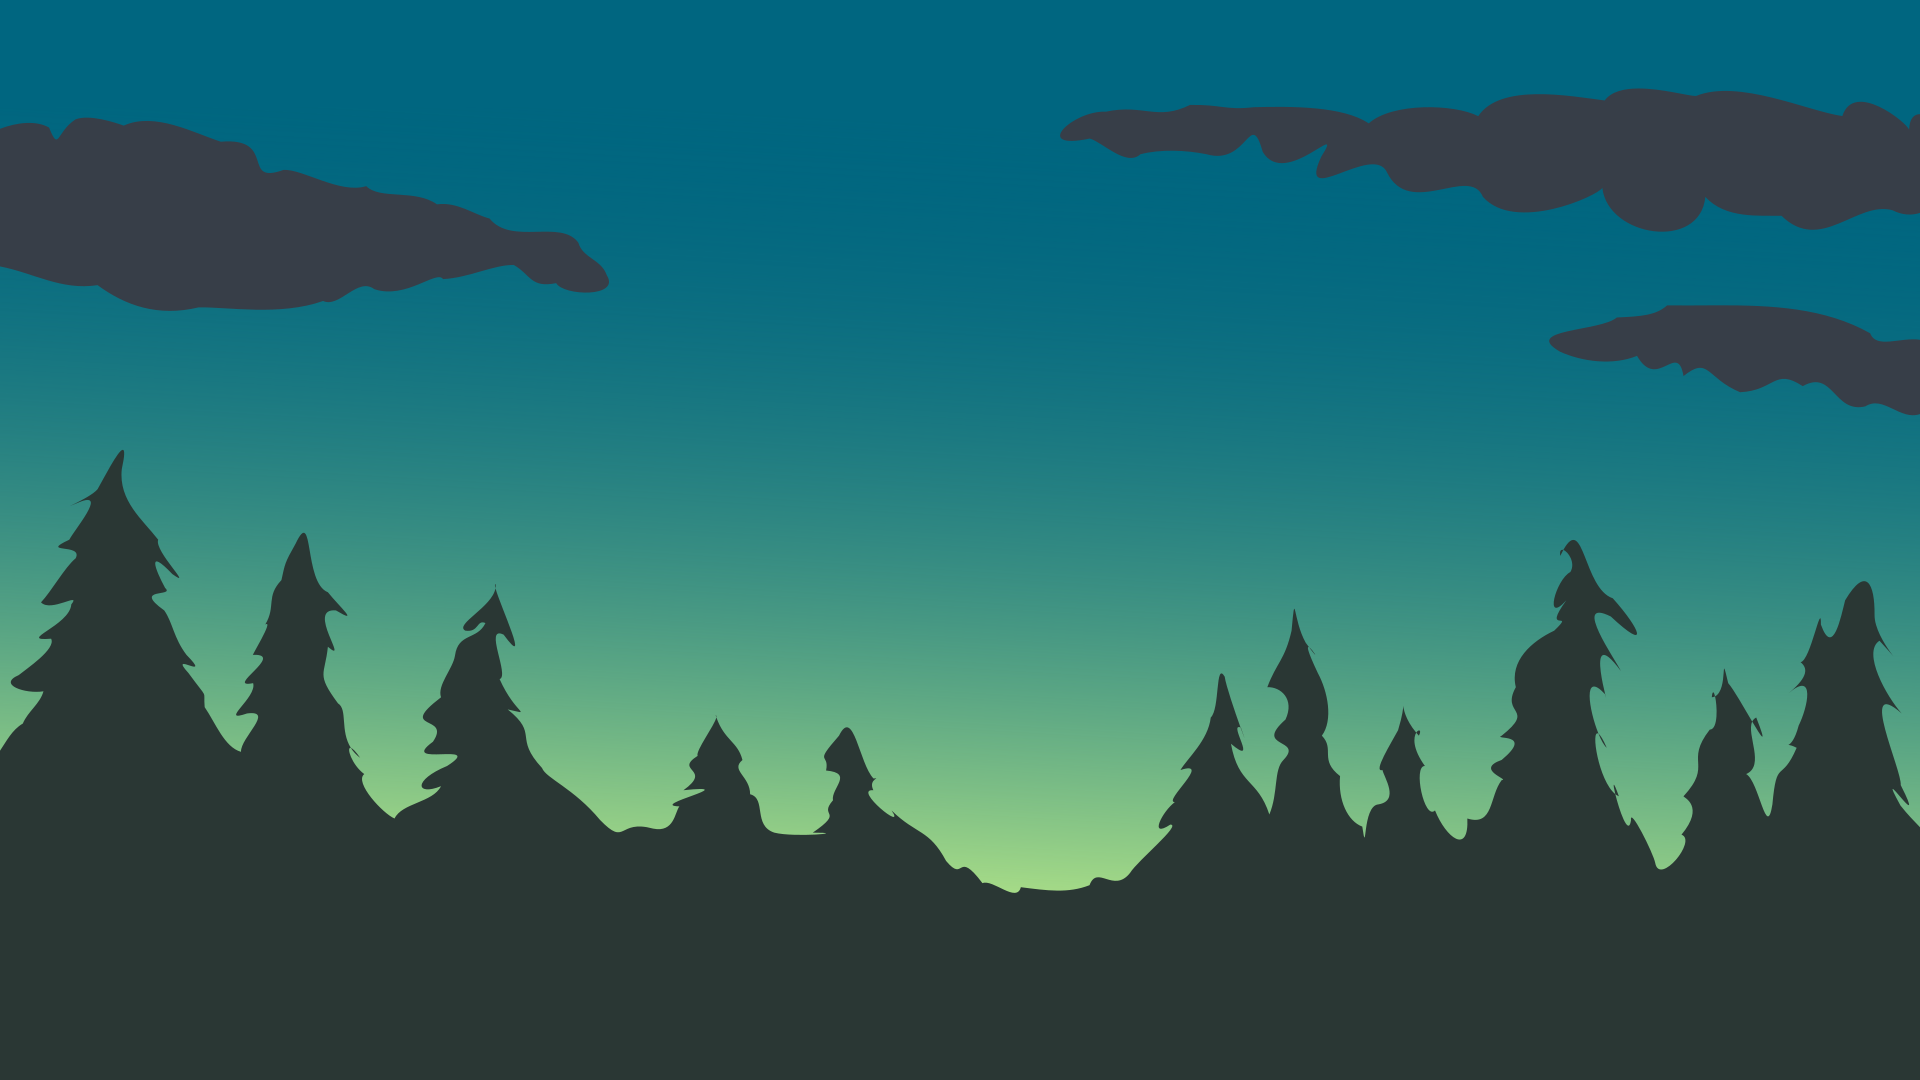
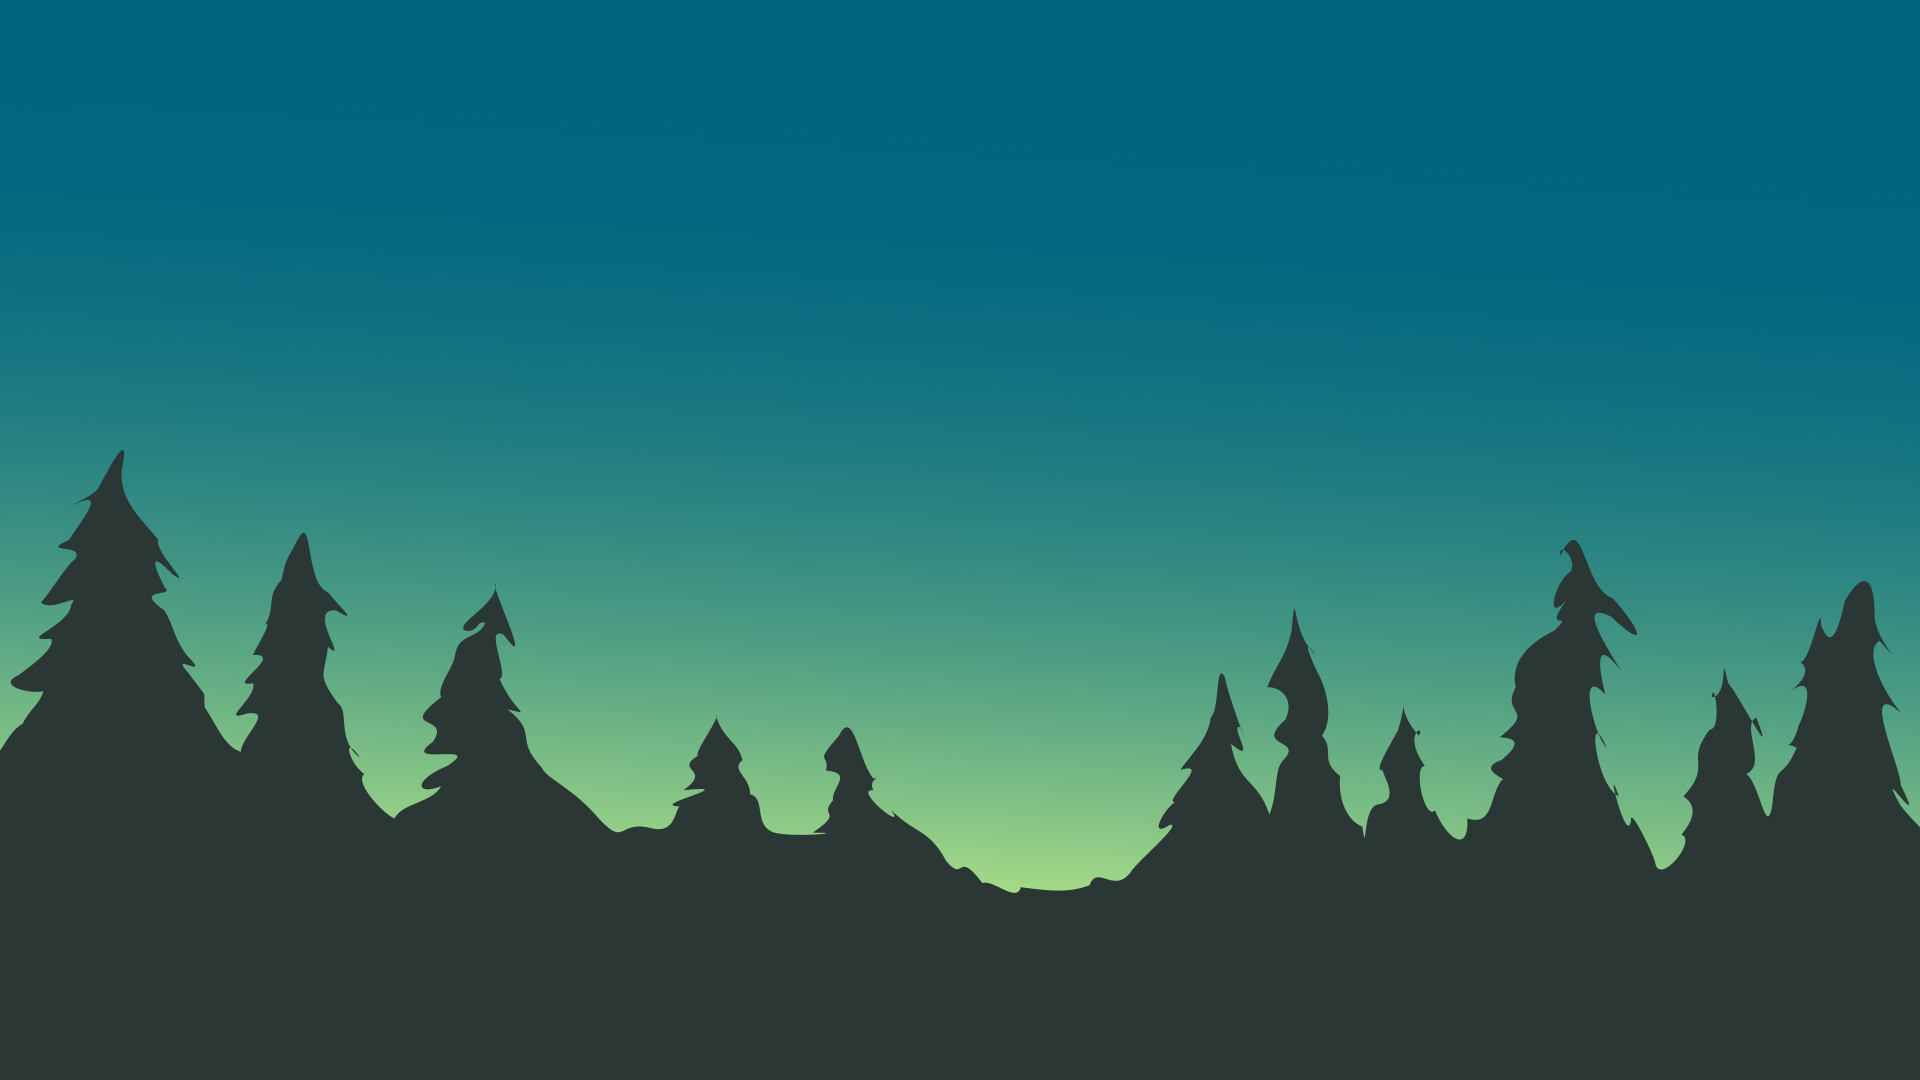
made the clouds move

Changed region(s): [[0.5625, 0.0611, 1.0, 0.2139], [0.0, 0.0917, 0.3125, 0.3056], [0.8125, 0.275, 1.0, 0.3972]]

diff --git a/Assets/my_code/clouds_move.cs b/Assets/my_code/clouds_move.cs
@@ -1,0 +1,25 @@
+using System.Collections;
+using System.Collections.Generic;
+using UnityEngine;
+
+public class clouds_move : MonoBehaviour
+{
+    public float speed = 0.1f;
+    
+    private Material material;
+    private Vector2 offset = Vector2.zero;
+    
+    // Start is called before the first frame update
+    void Start()
+    {
+        material = GetComponent<Renderer>().material;
+        offset = material.GetTextureOffset("_MainTex");
+    }
+
+    // Update is called once per frame
+    void Update()
+    {
+        offset.x += speed * Time.deltaTime;
+        material.SetTextureOffset("_MainTex", offset);
+    }
+}
